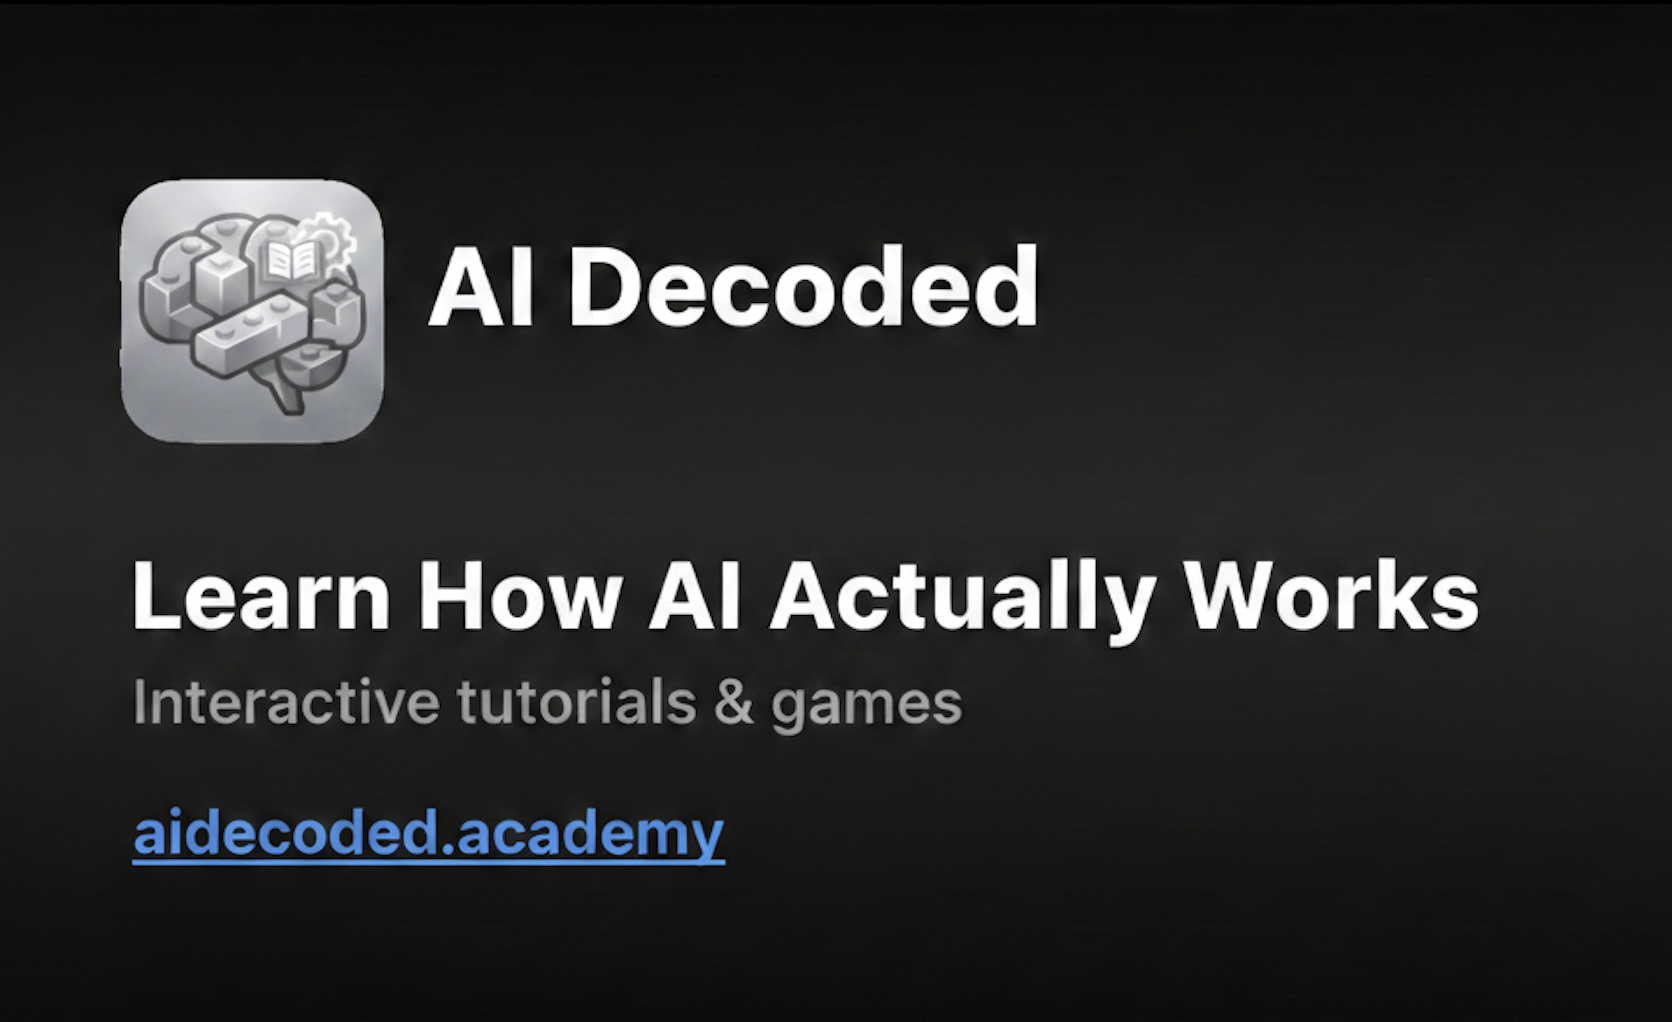
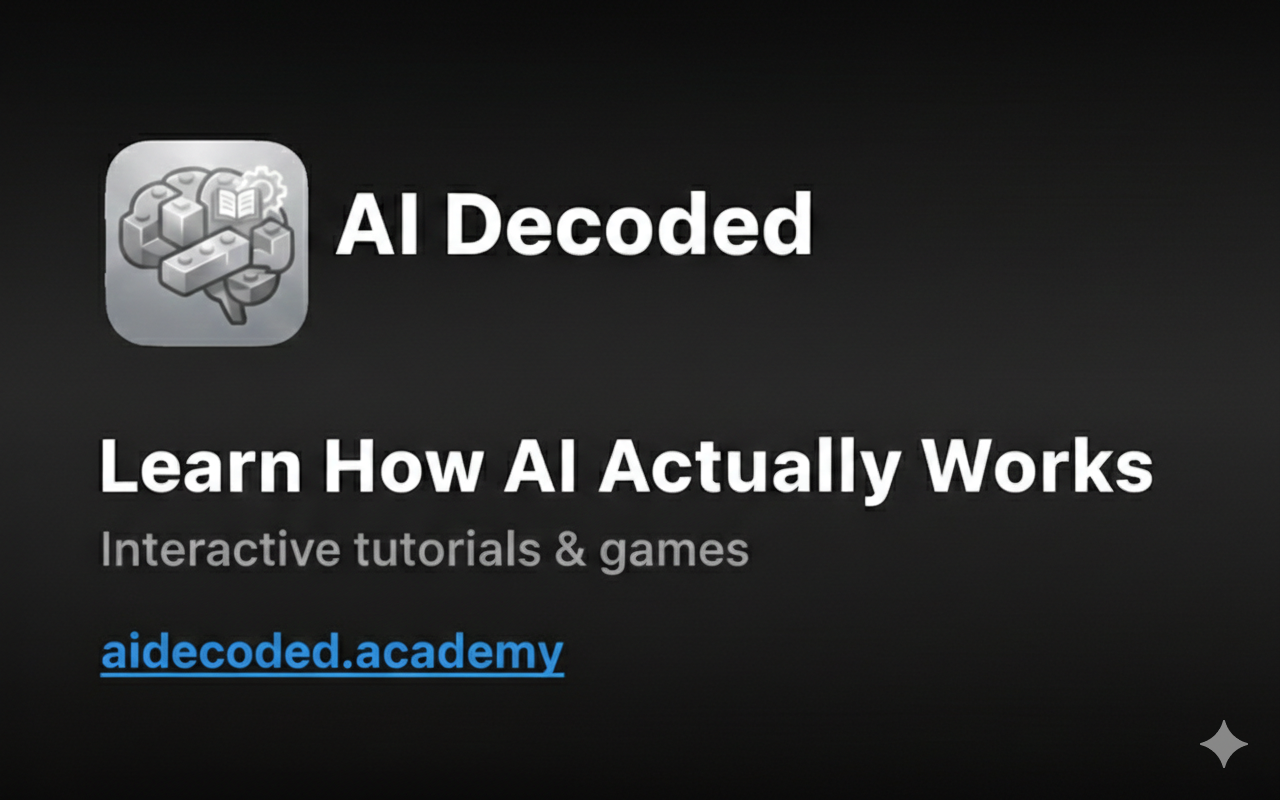
Update OG image to 1280x800 and fix meta tag dimensions

diff --git a/index.html b/index.html
@@ -21,8 +21,8 @@
     <meta property="og:description" content="Learn how AI works through interactive tutorials and games. Tokenization, prompt engineering, RAG, agentic AI, deep learning and more — free." />
     <meta property="og:url" content="https://www.aidecoded.academy/" />
     <meta property="og:image" content="https://www.aidecoded.academy/og-image.png" />
-    <meta property="og:image:width" content="1672" />
-    <meta property="og:image:height" content="1022" />
+    <meta property="og:image:width" content="1280" />
+    <meta property="og:image:height" content="800" />
     <meta property="og:locale" content="en_US" />
 
     <!-- Twitter Card -->
